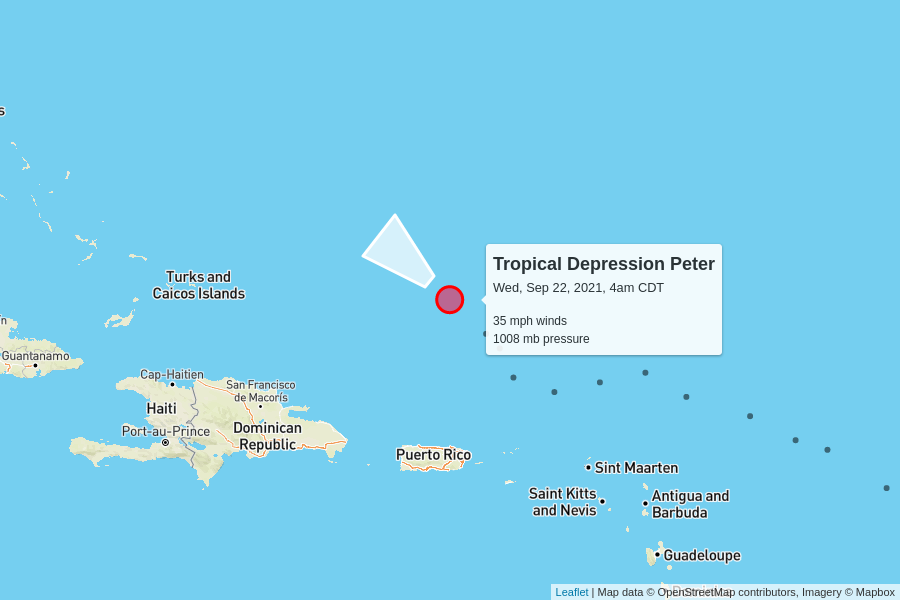
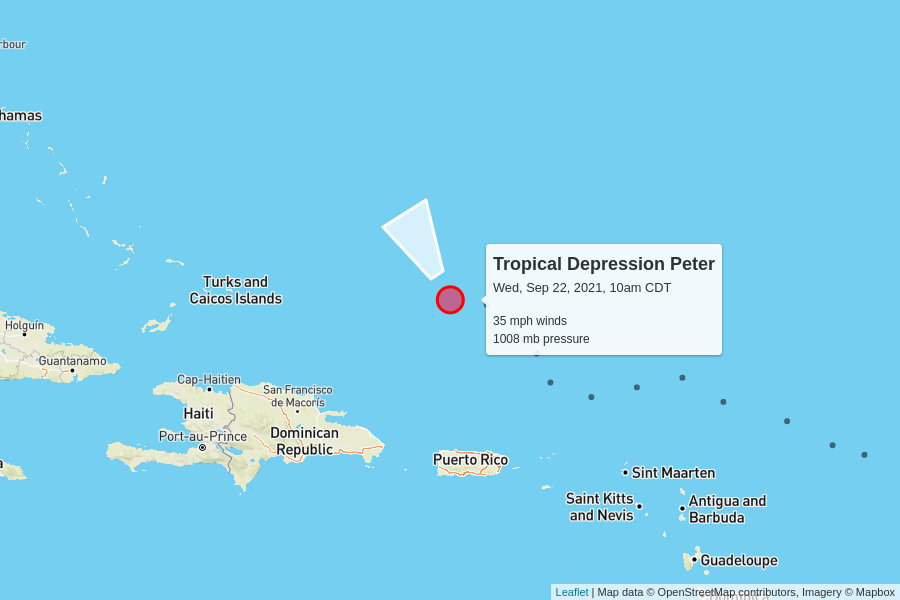
automatic update

diff --git a/docs/index.html b/docs/index.html
@@ -100,7 +100,7 @@
         <td colspan="6" class="storm category-0" >
           <h2>
             Tropical Depression Peter
-            <p class="updated">last updated <span data-time>2021-09-22T09:00:00.000Z</span></p>
+            <p class="updated">last updated <span data-time>2021-09-22T15:00:00.000Z</span></p>
           </h2>
         </td>
       </tr>
@@ -118,9 +118,9 @@
         <td>35 mph</td>
         <td>1008 mb</td>
         <td>
-          12 mph to the northwest
+          7 mph to the north-northwest
           <br/>
-          <span style="display: inline-block; font-size: 1.5em; transform: rotate(310deg);">↑</span>
+          <span style="display: inline-block; font-size: 1.5em; transform: rotate(330deg);">↑</span>
         </td>
         <td><a href="https://raw.githubusercontent.com/mgwalker/atlantic-hurricanes/main/data/csv/AL162021.csv">AL162021.csv</a></td>
         <td><a href="https://www.nhc.noaa.gov/archive/2021/PETER.shtml?">NHC advisories</a></td>
@@ -144,7 +144,7 @@
         <td colspan="6" class="storm category-0" >
           <h2>
             Tropical Depression Rose
-            <p class="updated">last updated <span data-time>2021-09-22T09:00:00.000Z</span></p>
+            <p class="updated">last updated <span data-time>2021-09-22T15:00:00.000Z</span></p>
           </h2>
         </td>
       </tr>
@@ -162,9 +162,9 @@
         <td>35 mph</td>
         <td>1009 mb</td>
         <td>
-          8 mph to the northwest
+          9 mph to the northwest
           <br/>
-          <span style="display: inline-block; font-size: 1.5em; transform: rotate(325deg);">↑</span>
+          <span style="display: inline-block; font-size: 1.5em; transform: rotate(305deg);">↑</span>
         </td>
         <td><a href="https://raw.githubusercontent.com/mgwalker/atlantic-hurricanes/main/data/csv/AL172021.csv">AL172021.csv</a></td>
         <td><a href="https://www.nhc.noaa.gov/archive/2021/ROSE.shtml?">NHC advisories</a></td>
